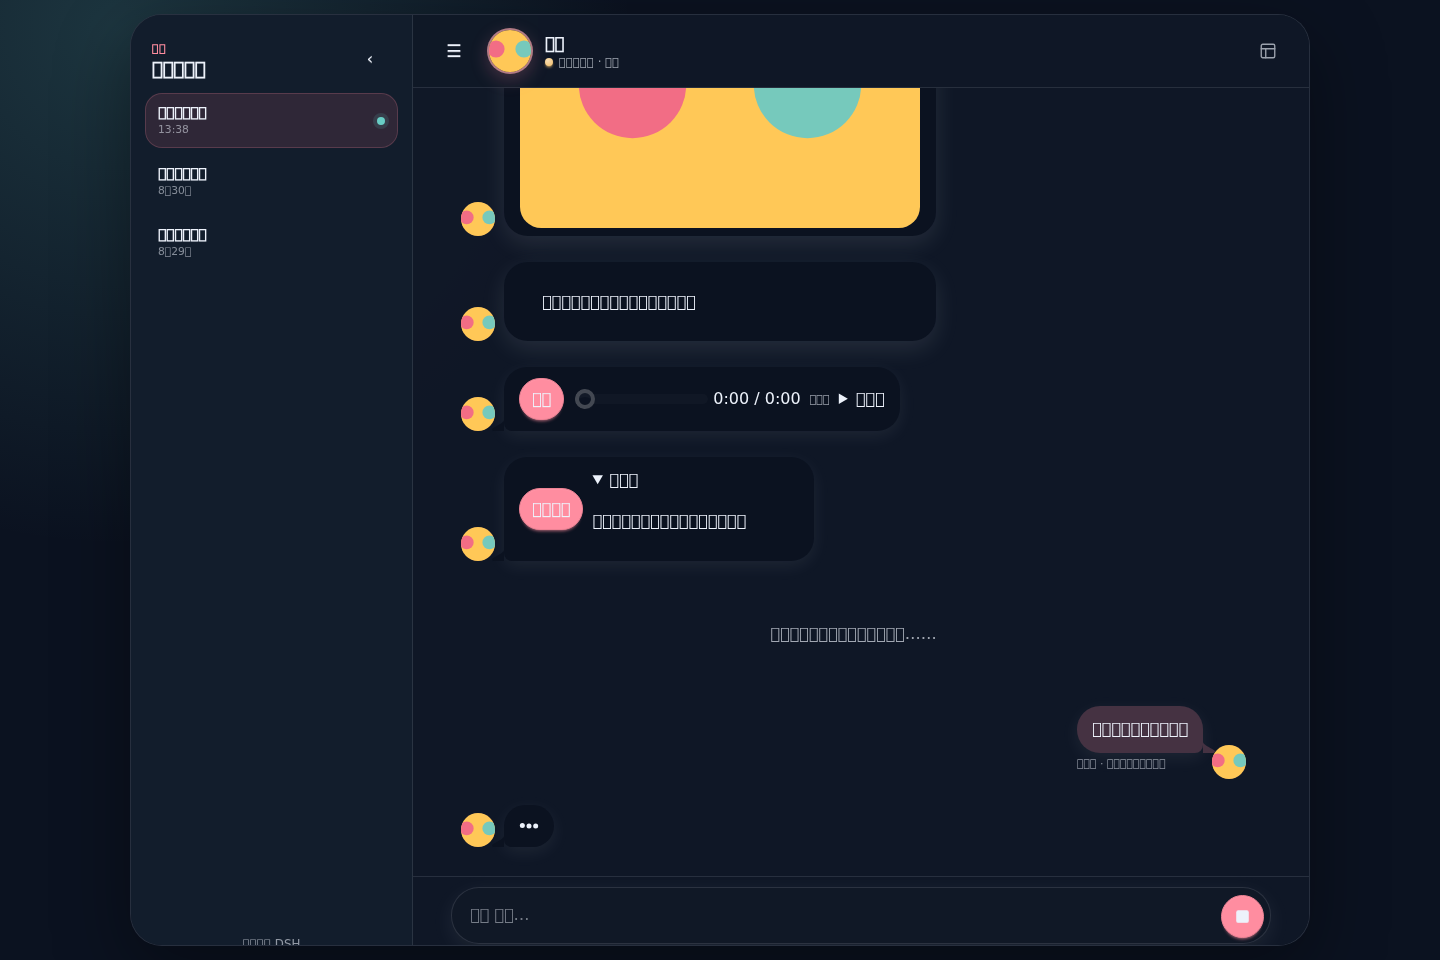
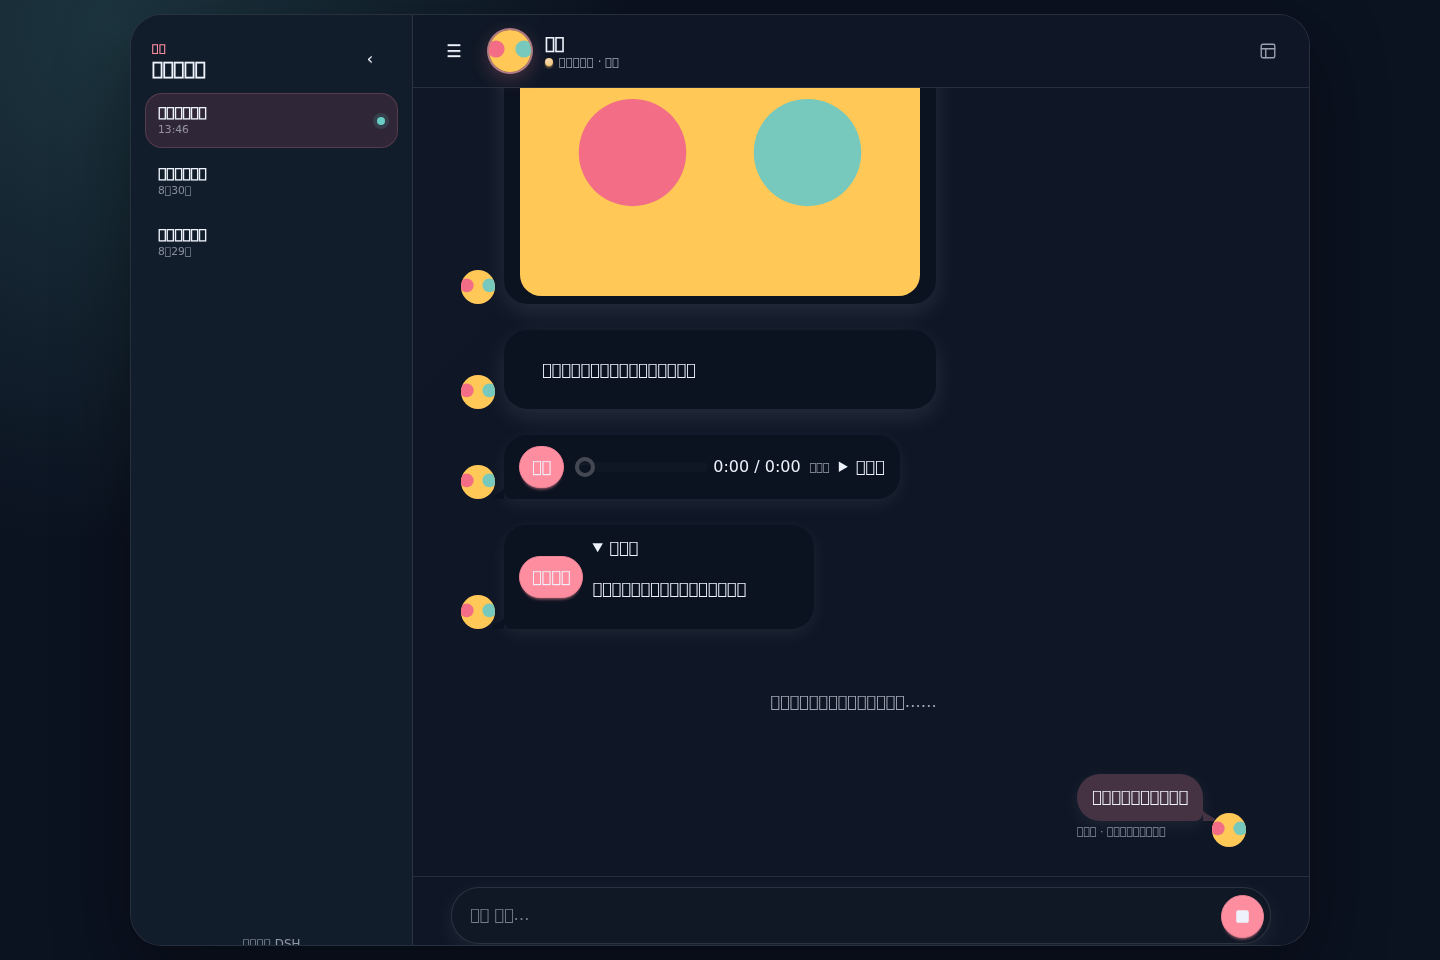
fix(companion): keep image and typing progress distinct

diff --git a/src/client/Companion.svelte b/src/client/Companion.svelte
@@ -82,6 +82,8 @@
   let overlayHistory = false;
   let lightboxCloseFromHistory = false;
   let statusText = "";
+  let imageGenerationRunning = false;
+  let typingVisible = false;
   let waitingCopy = "";
   let waitingCycle = "";
   let waitingDelayTimer: ReturnType<typeof setTimeout> | undefined;
@@ -89,7 +91,9 @@
   const intensityLabels: Record<number, string> = { 1: "轻微", 2: "明显", 3: "强烈" };
 
   $: statusText = projection.status === "working" ? "正在陪你想" : projection.status === "reconnecting" ? "正在重新连接" : "已准备好";
-  $: syncWaitingState(projection.running, `${sessions.find((session) => session.selected)?.id ?? "none"}:${latestSettledReplyKey(projection)}`);
+  $: imageGenerationRunning = projection.items.some((item) => item.kind === "image" && (item.state === "running" || item.state === "loading"));
+  $: typingVisible = projection.running && !imageGenerationRunning;
+  $: syncWaitingState(typingVisible, `${sessions.find((session) => session.selected)?.id ?? "none"}:${latestSettledReplyKey(projection)}`);
   $: if (projection) void reconcileProjection(projection);
 
   function latestSettledReplyKey(value: CompanionProjection): string {
@@ -477,7 +481,7 @@
               <article class="cmp-chat cmp-chat-start companion-row incoming" data-testid={`image-${item.id}`}>
                 <div class="cmp-chat-image cmp-avatar cmp-avatar-placeholder cmp:rounded-full message-avatar"><div class="companion-avatar-crop cmp:rounded-full">{#if identity.companionAvatar}<img src={identity.companionAvatar} alt="" />{:else}<span aria-hidden="true">✦</span>{/if}</div></div>
                 <div class="cmp-chat-bubble companion-media">
-                  {#if item.state === "running" || item.state === "loading"}<div class="cmp-skeleton" style="height:260px"></div><div style="padding:12px">正在画一张图…</div>
+                  {#if item.state === "running" || item.state === "loading"}<div class="cmp-skeleton" style="height:260px" aria-hidden="true"></div><div style="padding:12px" role="status">正在画一张图…</div>
                   {:else if imageUrls[item.id]}<button class="companion-media-button" aria-label={"查看大图：" + item.alt} on:click={() => showLightbox(item)}><img src={imageUrls[item.id]} alt={item.alt} /></button>
                   {:else if imageErrors[item.id] || item.state === "failed"}<div role="alert" style="padding:22px">{item.error || imageErrors[item.id] || "图片暂时无法显示。"}</div>
                   {:else}<div class="cmp-loading cmp-loading-spinner" style="margin:32px auto"></div>{/if}
@@ -503,7 +507,7 @@
               <div class="companion-recovery" role={item.tone === "error" ? "alert" : "status"}><p>{item.text}</p></div>
             {/if}
           {/each}
-          {#if projection.running}
+          {#if typingVisible}
             <article class="cmp-chat cmp-chat-start companion-row incoming" data-testid="companion-typing-indicator" role="status" aria-label={`${identity.companionName}正在输入`}>
               <div class="cmp-chat-image cmp-avatar cmp-avatar-placeholder cmp:rounded-full message-avatar">
                 <div class="companion-avatar-crop cmp:rounded-full">{#if identity.companionAvatar}<img src={identity.companionAvatar} alt="" />{:else}<span aria-hidden="true">✦</span>{/if}</div>

diff --git a/tests/e2e/fixture.spec.ts b/tests/e2e/fixture.spec.ts
@@ -77,9 +77,14 @@ test("draft edits stay local to the composer", async ({ page }) => {
   expect(timing).toBeLessThan(50);
 });
 
-test("shows an incoming typing indicator only while the companion is running", async ({ page }) => {
+test("uses image progress instead of a duplicate typing indicator, then resumes typing", async ({ page }) => {
   await page.goto("/");
   const indicator = page.getByTestId("companion-typing-indicator");
+  const drawing = page.getByText("正在画一张图…", { exact: true });
+  await expect(drawing).toBeVisible();
+  await expect(drawing).toHaveAttribute("role", "status");
+  await expect(indicator).toHaveCount(0);
+  await page.evaluate(() => window.__companionFixture?.finishImageGeneration());
   await expect(indicator).toBeVisible();
   await expect(indicator).toHaveAccessibleName("小灯正在输入");
   await page.evaluate(() => window.__companionFixture?.setRunning(false));
@@ -89,6 +94,7 @@ test("shows an incoming typing indicator only while the companion is running", a
 test("warms up a long typing wait with rotating non-repeating companion copy", async ({ page }) => {
   await page.clock.install();
   await page.goto("/");
+  await page.evaluate(() => window.__companionFixture?.finishImageGeneration());
   const indicator = page.getByTestId("companion-typing-indicator");
   await expect(indicator.locator(".companion-waiting-copy")).toHaveCount(0);
   await page.clock.fastForward(12_000);

diff --git a/fixture/main.ts b/fixture/main.ts
@@ -67,6 +67,7 @@ declare global {
       setTheme(theme: "light" | "dark"): void;
       setStatus(status: CompanionProjection["status"]): void;
       setRunning(running: boolean): void;
+      finishImageGeneration(): void;
       stopCalls(): number;
       setIdentity(patch: Partial<CompanionBridgeProps["identity"]>): void;
       revoked(): number;
@@ -88,6 +89,7 @@ window.__companionFixture = {
   setTheme(theme) { propsStore.update((current) => ({ ...current, scheme: theme })); },
   setStatus(status) { propsStore.update((current) => ({ ...current, projection: { ...current.projection!, status } })); },
   setRunning(running) { propsStore.update((current) => ({ ...current, projection: { ...current.projection!, running } })); },
+  finishImageGeneration() { propsStore.update((current) => ({ ...current, projection: { ...current.projection!, items: current.projection!.items.filter((item) => item.id !== "imagegen:demo:loading") } })); },
   stopCalls: () => stopCalls,
   setIdentity(patch) { propsStore.update((current) => ({ ...current, identity: { ...current.identity!, ...patch } })); },
   revoked: () => revokedImageUrls,

diff --git a/README.md b/README.md
@@ -34,6 +34,8 @@ Messages sent during a reply use DSH's durable FIFO queue and remain separate tu
 
 DSH continues to stream and persist model output internally, while Companion shows assistant text only after its message is finalized. The typing bubble gains a slowly rotating, non-repeating companion note after a 12-second wait; stopping or completing the reply clears that transient timer state.
 
+While ImageGen is running, its image skeleton and “正在画一张图…” status replace the generic typing bubble. If the agent resumes text generation after the image settles, the typing indicator returns with a fresh long-wait timer.
+
 The Companion deliberately does not include a Workspace picker, session list/new-chat flow, model or preset controls, permissions/approvals, reasoning, Trajectory, generic Tool cards, prompt-injection inspection, file upload, voice input, notifications, or multi-contact UI.
 
 ## Configuration and recovery
